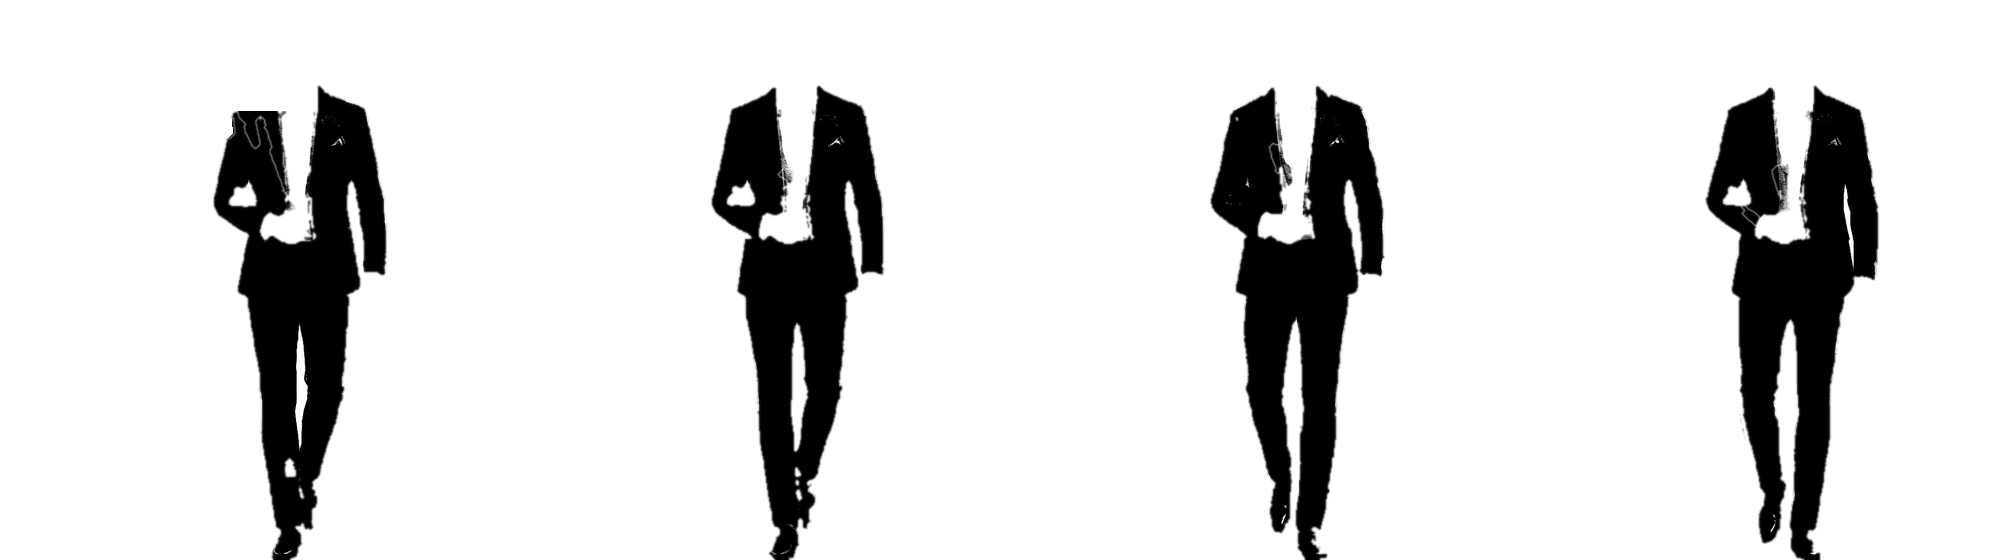
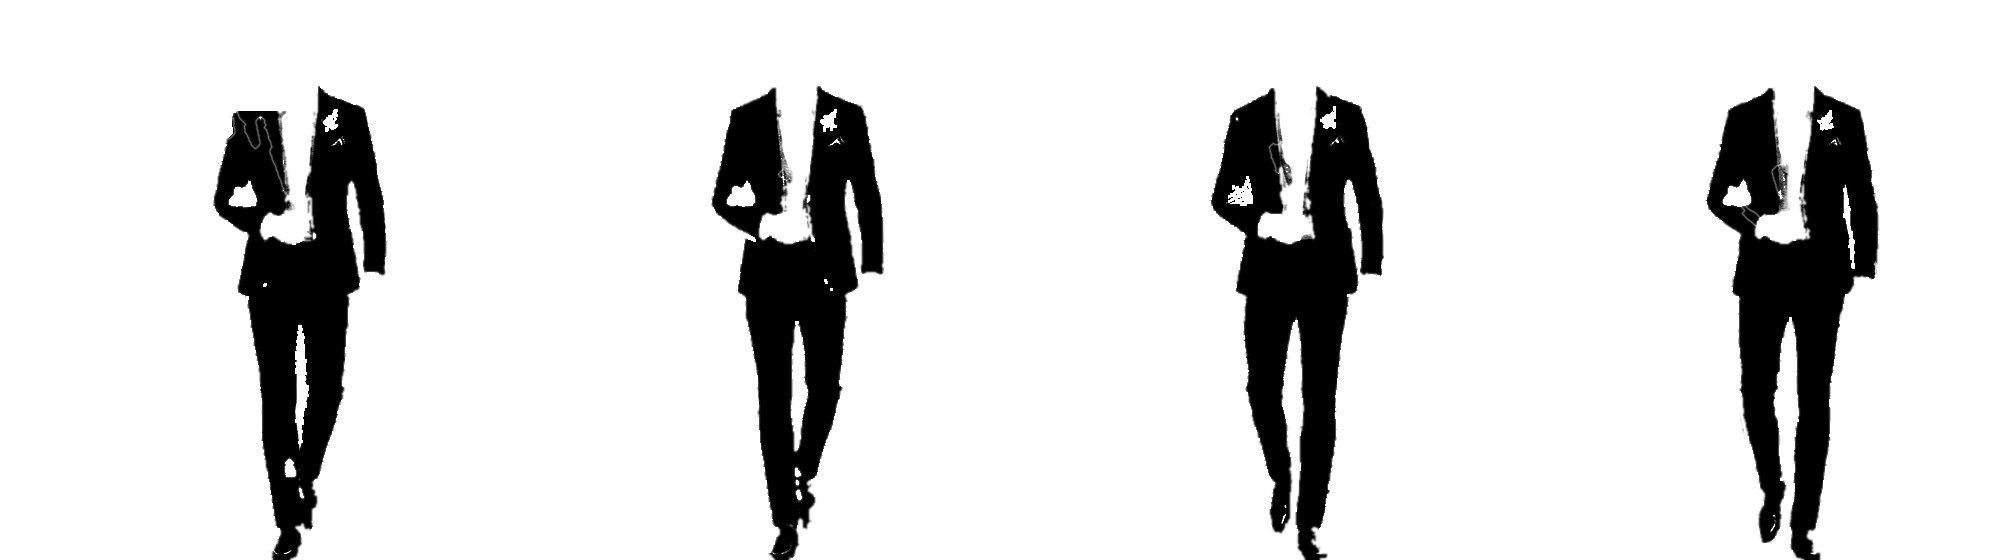
dress code correction couleur

diff --git a/dresscode.js b/dresscode.js
@@ -16,10 +16,21 @@
   /* dress code « trait » : croquis à l'encre + lavis de couleur sur la robe et le costume, couleurs au choix */
   /* aquarelle : 4 poses + masques robe/costume recolorés en mode « couleur » (les ombres de l'aquarelle restent) */
   const PALT = () => (DC.couleursInvites && DC.couleursInvites.length ? DC.couleursInvites : []);
+  /* Le mode « couleur » garde la luminosité du dessin : un costume foncé ne peut pas devenir rose clair.
+     On ajoute donc d'abord un calque qui éclaircit (écran) ou assombrit (produit) le vêtement
+     jusqu'à la luminosité de la pastille, puis la teinte est posée par-dessus. */
+  const LUM = Object.assign({ robe: .72, costume: .34 }, DC.lumMarche || {});
+  const hexLum = h => { const x = String(h).replace('#', ''), f = x.length < 6 ? x.slice(0, 3).split('').map(c => c + c).join('') : x.slice(0, 6);
+    const n = parseInt(f, 16); return ((n >> 16 & 255) * .3 + (n >> 8 & 255) * .59 + (n & 255) * .11) / 255; };
+  const tone = (hex, lb) => { const lt = hexLum(hex); if (isNaN(lt)) return { c: '#000', b: 'normal', o: 0 };
+    if (lt >= lb) { const g = Math.round(255 * Math.min(1, 1 - (1 - lt) / (1 - lb))); return { c: `rgb(${g},${g},${g})`, b: 'screen', o: 1 }; }
+    const g = Math.round(255 * Math.max(0, lt / lb)); return { c: `rgb(${g},${g},${g})`, b: 'multiply', o: 1 }; };
+  const spVars = (r, c) => { const tr = tone(r, LUM.robe), tc = tone(c, LUM.costume);
+    return `--sp-robe:${esc(r)};--sp-costume:${esc(c)};--sp-robe-t:${tr.c};--sp-robe-b:${tr.b};--sp-costume-t:${tc.c};--sp-costume-b:${tc.b}`; };
   const spriteHtml = () => { const pl = PALT(), c0 = DC.couleurDefaut || pl[0], base = DC.marche.replace(/\.webp$/, '');
     const m = DC.masquesMarche || { robe: 'photos/invites-marche-robe.webp', costume: 'photos/invites-marche-costume.webp' };
-    return `<div class="dc-sprite${c0 ? ' teinte' : ''}" role="img" aria-label="Un couple d’invités élégants qui marche" style="${c0 ? `--sp-robe:${esc(c0.robe)};--sp-costume:${esc(c0.costume)}` : ''}">
-      <div class="sp-strip"><img src="${esc(DC.marche)}" alt="">${c0 ? `<i class="sp-w robe" style="--m:url('${esc(AS(m.robe))}')"></i><i class="sp-w costume" style="--m:url('${esc(AS(m.costume))}')"></i>` : ''}</div></div>
+    return `<div class="dc-sprite${c0 ? ' teinte' : ''}" role="img" aria-label="Un couple d’invités élégants qui marche" style="${c0 ? spVars(c0.robe, c0.costume) : ''}">
+      <div class="sp-strip"><img src="${esc(DC.marche)}" alt="">${c0 ? `<i class="sp-t robe" style="--m:url('${esc(AS(m.robe))}')"></i><i class="sp-t costume" style="--m:url('${esc(AS(m.costume))}')"></i><i class="sp-w robe" style="--m:url('${esc(AS(m.robe))}')"></i><i class="sp-w costume" style="--m:url('${esc(AS(m.costume))}')"></i>` : ''}</div></div>
       ${DC.afficherPastilles !== false && pl.length > 1 ? `<div class="palette pick dc-pal">${pl.map((c, i) => { const on = c0 && c.robe === c0.robe && c.costume === c0.costume; return `<button type="button" class="${on ? 'on' : ''}" data-r="${esc(c.robe)}" data-c="${esc(c.costume)}" aria-pressed="${on}"><i style="--c:linear-gradient(135deg, ${esc(c.robe)} 50%, ${esc(c.costume)} 50%)"></i>${esc(c.nom)}</button>`; }).join('')}</div>` : ''}`; };
   const traitHtml = () => { const T = DC.trait, c = DC.traitCouleurs;
     return `<div class="dc-trait wait${c ? ' teinte' : ''}" style="--tr-robe:${esc((c && c.robe) || '#b2c4e2')};--tr-costume:${esc((c && c.costume) || '#2e4a72')}" role="img" aria-label="Croquis d’un couple d’invités élégants">
@@ -52,7 +63,7 @@
     const pal = document.querySelector('.dc-pal'), fig = document.querySelector('.dc-sprite'); if (!pal || !fig) return;
     pal.addEventListener('click', e => { const b = e.target.closest('button'); if (!b) return;
       pal.querySelectorAll('button').forEach(x => { x.classList.toggle('on', x === b); x.setAttribute('aria-pressed', x === b); });
-      fig.style.setProperty('--sp-robe', b.dataset.r); fig.style.setProperty('--sp-costume', b.dataset.c); });
+      spVars(b.dataset.r, b.dataset.c).split(';').forEach(d => { const i = d.indexOf(':'); fig.style.setProperty(d.slice(0, i), d.slice(i + 1)); }); });
   }
   function palettePick() {
     const pal = $('#palette'); if (!pal || !pal.classList.contains('pick')) return;

diff --git a/dresscode.css b/dresscode.css
@@ -127,6 +127,10 @@
 .dc-sprite .sp-strip img { display: block; width: 100%; height: 100%; max-width: none; }
 .dc-sprite .sp-w { position: absolute; inset: 0; mix-blend-mode: color; transition: background-color .6s ease;
   -webkit-mask: var(--m) 0 0 / 100% 100% no-repeat; mask: var(--m) 0 0 / 100% 100% no-repeat; }
+.dc-sprite .sp-t { position: absolute; inset: 0; transition: background-color .6s ease;
+  -webkit-mask: var(--m) 0 0 / 100% 100% no-repeat; mask: var(--m) 0 0 / 100% 100% no-repeat; }
+.dc-sprite .sp-t.robe { background-color: var(--sp-robe-t, #000); mix-blend-mode: var(--sp-robe-b, screen); }
+.dc-sprite .sp-t.costume { background-color: var(--sp-costume-t, #000); mix-blend-mode: var(--sp-costume-b, screen); }
 .dc-sprite .sp-w.robe { background-color: var(--sp-robe); }
 .dc-sprite .sp-w.costume { background-color: var(--sp-costume); }
 @keyframes dc-walk { to { transform: translateX(-100%); } }
